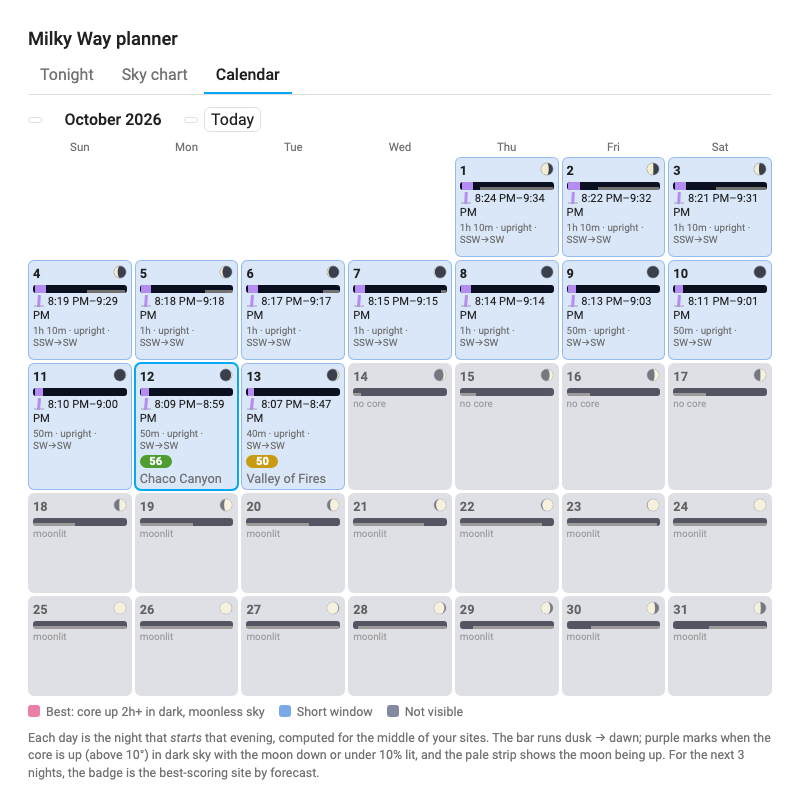
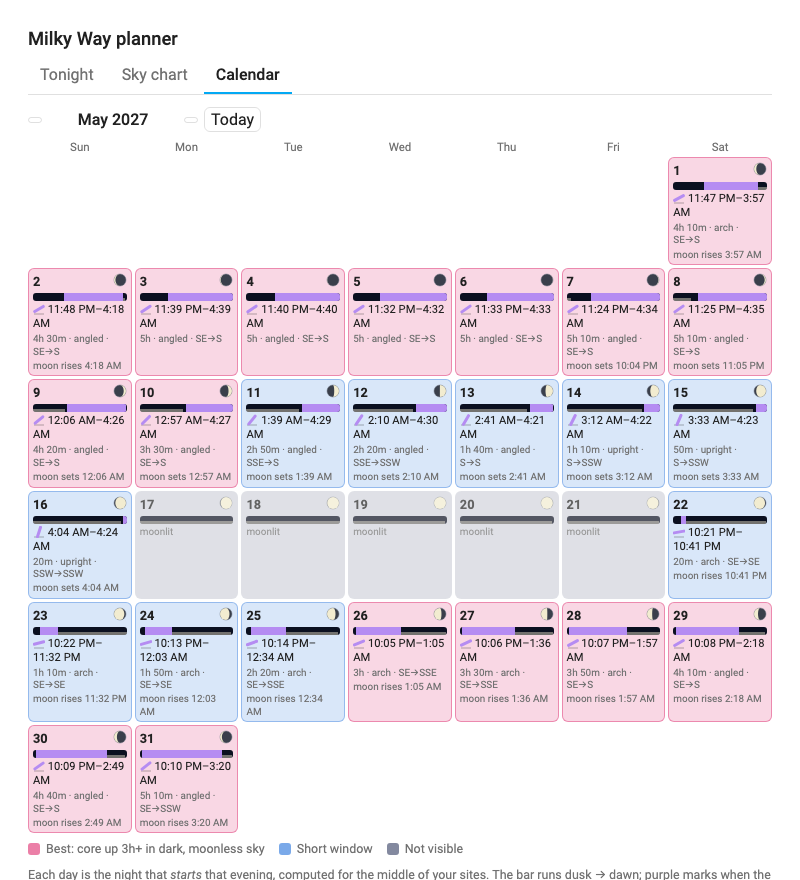
Grade the calendar by Capture the Atlas's rule and show moon rise/set
Compared against all 52 weekly rows of their 2026 Southwest table (read from
the published image): their colours are pink when the moonless core window is
at least 3 hours, blue when shorter, dark when none, with the core counted from
the horizon. The previous defaults (2h cutoff, core above 10°) agreed on 46 of
52 weeks; the new ones agree on 50 of 52 with windows within ~7 minutes.

- calendar_best_minutes defaults to 180; new calendar_min_altitude defaults to 0
  (the ranking and chart keep min_gc_altitude).
- Each calendar day notes when the moon sets or rises during the night, which
  explains pink days with a bright moon (moon up only outside the core window).
- Regression test against the CTA table (test/fixtures/cta-2026.json).

diff --git a/src/views/calendar-view.ts b/src/views/calendar-view.ts
@@ -55,7 +55,7 @@ export function renderCalendar(ctx: ViewContext, h: CalendarHandlers): TemplateR
       : nothing}
     <div class="legend">
       Each day is the night that <em>starts</em> that evening, computed for the middle of your sites. The bar runs dusk → dawn; purple marks when the
-      core is up (above ${ctx.config.min_gc_altitude}°) in dark sky with the moon down or under ${ctx.config.max_moon_illumination}% lit, and the pale strip
+      core is above ${ctx.config.calendar_min_altitude}° in dark sky with the moon down or under ${ctx.config.max_moon_illumination}% lit, and the pale strip
       shows the moon being up. For the next ${ctx.config.nights} nights, the badge is the best-scoring site by forecast.
     </div>
   `;
@@ -104,8 +104,17 @@ function renderDay(ctx: ViewContext, date: CivilDate, overlay: boolean, isTonigh
             ${formatDuration(night.gcMinutes)} · ${night.orientation}${night.gcAzimuthStart !== null ? ` · ${compassPoint(night.gcAzimuthStart)}→${compassPoint(night.gcAzimuthEnd!)}` : ""}
           </div>`
       : html`<div class="cal-text small muted">${night.moonIllumination > 0.5 ? "moonlit" : "no core"}</div>`}
+    ${moonNote(ctx, night)}
     ${best ? renderBadge(best, () => h.onOpenChart(best.site.entity)) : nothing}
   </div>`;
+}
+
+/** When the moon sets or rises during the night, say so: it's why a bright-moon night can still be a good one. */
+function moonNote(ctx: ViewContext, night: NightSummary): TemplateResult | typeof nothing {
+  const parts: string[] = [];
+  if (night.moonSet) parts.push(`moon sets ${ctx.fmtTime(night.moonSet)}`);
+  if (night.moonRise) parts.push(`moon rises ${ctx.fmtTime(night.moonRise)}`);
+  return parts.length ? html`<div class="cal-text small muted cal-moonnote">${parts.join(" · ")}</div>` : nothing;
 }
 
 function bestSite(ctx: ViewContext, date: CivilDate): NightScore | null {

diff --git a/src/editor/card-editor.ts b/src/editor/card-editor.ts
@@ -30,6 +30,7 @@ const SCHEMA = [
       { name: "max_moon_illumination", selector: { number: { min: 0, max: 100, step: 1, unit_of_measurement: "%", mode: "box" } } },
       { name: "dome_radius_km", selector: { number: { min: 25, max: 600, step: 25, unit_of_measurement: "km", mode: "box" } } },
       { name: "calendar_best_minutes", selector: { number: { min: 15, max: 480, step: 15, unit_of_measurement: "min", mode: "box" } } },
+      { name: "calendar_min_altitude", selector: { number: { min: 0, max: 45, step: 1, unit_of_measurement: "°", mode: "box" } } },
     ],
   },
   { name: "calendar_highlight", selector: { boolean: {} } },
@@ -61,6 +62,7 @@ const LABELS: Record<string, string> = {
   max_moon_illumination: "Max moon illumination when up",
   dome_radius_km: "City search radius",
   calendar_best_minutes: "Calendar “best” = core window of at least",
+  calendar_min_altitude: "Calendar: core counts above",
   calendar_highlight: "Colour calendar days pink / blue / dark by core window",
   auto_drive_time: "Look up drive times from your Home Assistant location",
   weight_cloud: "Cloud weight",
@@ -95,6 +97,7 @@ export class MilkyWayPlannerCardEditor extends LitElement {
       max_moon_illumination: r.max_moon_illumination,
       dome_radius_km: r.dome_radius_km,
       calendar_best_minutes: r.calendar_best_minutes,
+      calendar_min_altitude: r.calendar_min_altitude,
       calendar_highlight: r.calendar_highlight,
       auto_drive_time: r.auto_drive_time,
       weight_cloud: r.weights.cloud,

diff --git a/test/capturetheatlas.test.ts b/test/capturetheatlas.test.ts
@@ -44,3 +44,25 @@ describe("matches Capture the Atlas 2026 (Kanab, 37°N)", () => {
     });
   }
 });
+
+describe("calendar grading matches the Capture the Atlas colour rule", () => {
+  // Calendar defaults: core counted from the horizon, moonless (≤10% lit counts as fine), best = at least 3 hours.
+  const CALENDAR_OPTS = { minGcAltitude: 0, maxMoonIllumination: 10, bortle: 2, domes: [], domeSigma: 25 };
+  const BEST_MINUTES = 180;
+
+  it("agrees with the colour of at least 49 of the 52 weekly rows and tracks window length", async () => {
+    const { addDays } = await import("../src/astro/time");
+    const { classifyNight } = await import("../src/scoring/score");
+    const ref = (await import("./fixtures/cta-2026.json")).default as { rows: { color: string; coreMinutes: number }[] };
+    let agree = 0;
+    let err = 0;
+    for (let i = 0; i < ref.rows.length; i++) {
+      const night = computeNight(addDays({ y: 2026, m: 1, d: 3 }, 7 * i), KANAB, CALENDAR_OPTS, 5);
+      const want = ref.rows[i].color === "pink" ? "best" : ref.rows[i].color === "blue" ? "short" : "none";
+      if (classifyNight(night.gcMinutes, BEST_MINUTES) === want) agree++;
+      err += Math.abs(night.gcMinutes - ref.rows[i].coreMinutes);
+    }
+    expect(agree).toBeGreaterThanOrEqual(49);
+    expect(err / ref.rows.length).toBeLessThan(10); // minutes, averaged over all rows
+  });
+});

diff --git a/src/astro/night.ts b/src/astro/night.ts
@@ -37,6 +37,9 @@ export interface NightSummary {
   stepMinutes: number;
   moonPhase: number; // degrees, 0 = new, 180 = full
   moonIllumination: number; // 0–1 at local midnight
+  /** First moonrise / moonset between dusk and dawn, if any. */
+  moonRise: Date | null;
+  moonSet: Date | null;
   darkMinutes: number;
   gcMinutes: number;
   gcStart: Date | null;
@@ -123,6 +126,15 @@ export function computeNight(date: CivilDate, observer: Observer, opts: SkyOptio
   let worstScore = 0;
   for (const [g, v] of worstCount) if (v > worstScore) [worstDome, worstScore] = [g, v];
 
+  let moonRise: Date | null = null;
+  let moonSet: Date | null = null;
+  for (let i = 1; i < samples.length; i++) {
+    const was = samples[i - 1].moonAltitude > -0.5;
+    const now = samples[i].moonAltitude > -0.5;
+    if (!was && now) moonRise ??= samples[i].time;
+    if (was && !now) moonSet ??= samples[i].time;
+  }
+
   return {
     key: dateKey(date),
     date,
@@ -132,6 +144,8 @@ export function computeNight(date: CivilDate, observer: Observer, opts: SkyOptio
     stepMinutes,
     moonPhase: MoonPhase(midnight),
     moonIllumination: Illumination(Body.Moon, midnight).phase_fraction,
+    moonRise,
+    moonSet,
     darkMinutes: samples.filter((s) => s.dark).length * stepMinutes,
     gcMinutes: visible.length * stepMinutes,
     gcStart: first?.time ?? null,

diff --git a/src/milky-way-planner-card.ts b/src/milky-way-planner-card.ts
@@ -198,14 +198,15 @@ export class MilkyWayPlannerCard extends LitElement {
     const reference = referenceSite(sites, home);
 
     const skyOptions = (site: Site): SkyOptions => ({
-      minGcAltitude: config.min_gc_altitude,
+      // The calendar answers "which nights", measured like Capture the Atlas (core above the horizon); the ranking uses your usable altitude.
+      minGcAltitude: site.entity === REFERENCE_ENTITY ? config.calendar_min_altitude : config.min_gc_altitude,
       maxMoonIllumination: config.max_moon_illumination,
       bortle: site.bortle,
       domes: this._domes(site, config),
       domeSigma: config.dome_sigma,
     });
     const optsKey = (site: Site) =>
-      `${site.entity}|${site.observer?.latitude},${site.observer?.longitude}|${site.bortle}|${config.min_gc_altitude}|${config.max_moon_illumination}|${config.dome_sigma}|${config.light_domes.length}`;
+      `${site.entity}|${site.observer?.latitude},${site.observer?.longitude}|${site.bortle}|${site.entity === REFERENCE_ENTITY ? config.calendar_min_altitude : config.min_gc_altitude}|${config.max_moon_illumination}|${config.dome_sigma}|${config.light_domes.length}`;
 
     const night = (site: Site, date: CivilDate): NightSummary | null => {
       if (!site.observer) return null;

diff --git a/src/types.ts b/src/types.ts
@@ -75,6 +75,8 @@ export interface CardConfig {
   calendar_highlight?: boolean;
   /** Minimum dark core window (minutes) for a day to count as "best". */
   calendar_best_minutes?: number;
+  /** Minimum core altitude for the calendar. Capture the Atlas counts the core from the horizon, so this defaults to 0. */
+  calendar_min_altitude?: number;
   dome_radius_km?: number;
   // YAML-only advanced options
   dome_sigma?: number;
@@ -92,6 +94,7 @@ export interface ResolvedConfig extends CardConfig {
   auto_drive_time: boolean;
   calendar_highlight: boolean;
   calendar_best_minutes: number;
+  calendar_min_altitude: number;
   dome_sigma: number;
   dome_warning_threshold: number;
 }

diff --git a/src/data/defaults.ts b/src/data/defaults.ts
@@ -22,7 +22,8 @@ export function resolveConfig(config: CardConfig): ResolvedConfig {
     dome_radius_km: config.dome_radius_km ?? 250,
     auto_drive_time: config.auto_drive_time ?? true,
     calendar_highlight: config.calendar_highlight ?? true,
-    calendar_best_minutes: config.calendar_best_minutes ?? 120,
+    calendar_best_minutes: config.calendar_best_minutes ?? 180,
+    calendar_min_altitude: config.calendar_min_altitude ?? 0,
     dome_sigma: config.dome_sigma ?? 25,
     dome_warning_threshold: config.dome_warning_threshold ?? 0.15,
   };

diff --git a/dev/index.html b/dev/index.html
@@ -100,6 +100,8 @@
       light_domes: DOMES,
     });
     card.hass = hass;
+    const month = new URLSearchParams(location.search).get("month"); // e.g. 2027-05
+    if (month) { const [y, m] = month.split("-").map(Number); card._calYear = y; card._calMonth = m; }
 
     if (new URLSearchParams(location.search).has("bare")) document.querySelector(".bar").style.display = "none";
     document.getElementById("dark").addEventListener("change", (e) => document.body.classList.toggle("dark", e.target.checked));

diff --git a/README.md b/README.md
@@ -86,20 +86,23 @@ light_domes:
 | `title` | none | Card title |
 | `default_tab` | `ranking` | `ranking`, `chart` or `calendar` |
 | `nights` | `3` | Nights scored in the ranking and calendar overlay (1–7) |
-| `min_gc_altitude` | `10` | Minimum core altitude (°) to count as visible. Capture the Atlas counts the core from the horizon; set `0` to match its windows |
+| `min_gc_altitude` | `10` | Minimum core altitude (°) to count as usable in the ranking, chart and scores |
 | `max_moon_illumination` | `10` | Moon is ignored below the horizon or when ≤ this % lit |
 | `weights` | cloud 3, transparency 2, seeing 0.5, calm 1 | Relative weights of the weather score |
 | `dome_radius_km` | `250` | Search radius for **Find nearby cities** |
 | `auto_drive_time` | `true` | Look up driving time from your Home Assistant location to each site that has no `drive_minutes` |
 | `calendar_highlight` | `true` | Colour calendar days: pink = best, blue = short window, dark = core not visible |
-| `calendar_best_minutes` | `120` | Core window (minutes, in dark moonless sky) a day needs to count as "best" |
+| `calendar_best_minutes` | `180` | Core window (minutes, in dark moonless sky) a day needs to count as "best" (pink) |
+| `calendar_min_altitude` | `0` | Altitude (°) above which the core counts in the calendar. Capture the Atlas counts from the horizon, so the calendar does too; `min_gc_altitude` (default 10°) applies to the ranking and chart |
 | `dome_sigma` | `25` | (YAML) Angular spread (°) of a city's glow |
 | `dome_warning_threshold` | `0.15` | (YAML) Penalty above which a dome warning shows |
 
 ## How it works
 
-- **Accuracy**: with `min_gc_altitude: 0` and the moon ignored, the computed core windows for 37°N agree with Capture the Atlas's 2026
-  calendar to within a few minutes (checked in `test/capturetheatlas.test.ts`), and so does the arch/angled/upright progression.
+- **Accuracy**: the computed core windows for 37°N agree with Capture the Atlas's 2026 calendar to within a few minutes, and so does the
+  arch/angled/upright progression. The calendar's colours follow the same rule they use: pink when the moonless core window is at least
+  3 hours, blue when it's shorter, dark when there is none. That matches the colour of 50 of the 52 weekly rows in their table
+  (see `test/capturetheatlas.test.ts`); the other two are within minutes of the cutoff.
 - **Sun, moon and galactic center positions** are computed in the browser with
   [astronomy-engine](https://github.com/cosinekitty/astronomy). A night is "dark" when the sun is below −18° and the moon is down or
   nearly new; the core window is the dark time with the core above your minimum altitude.
